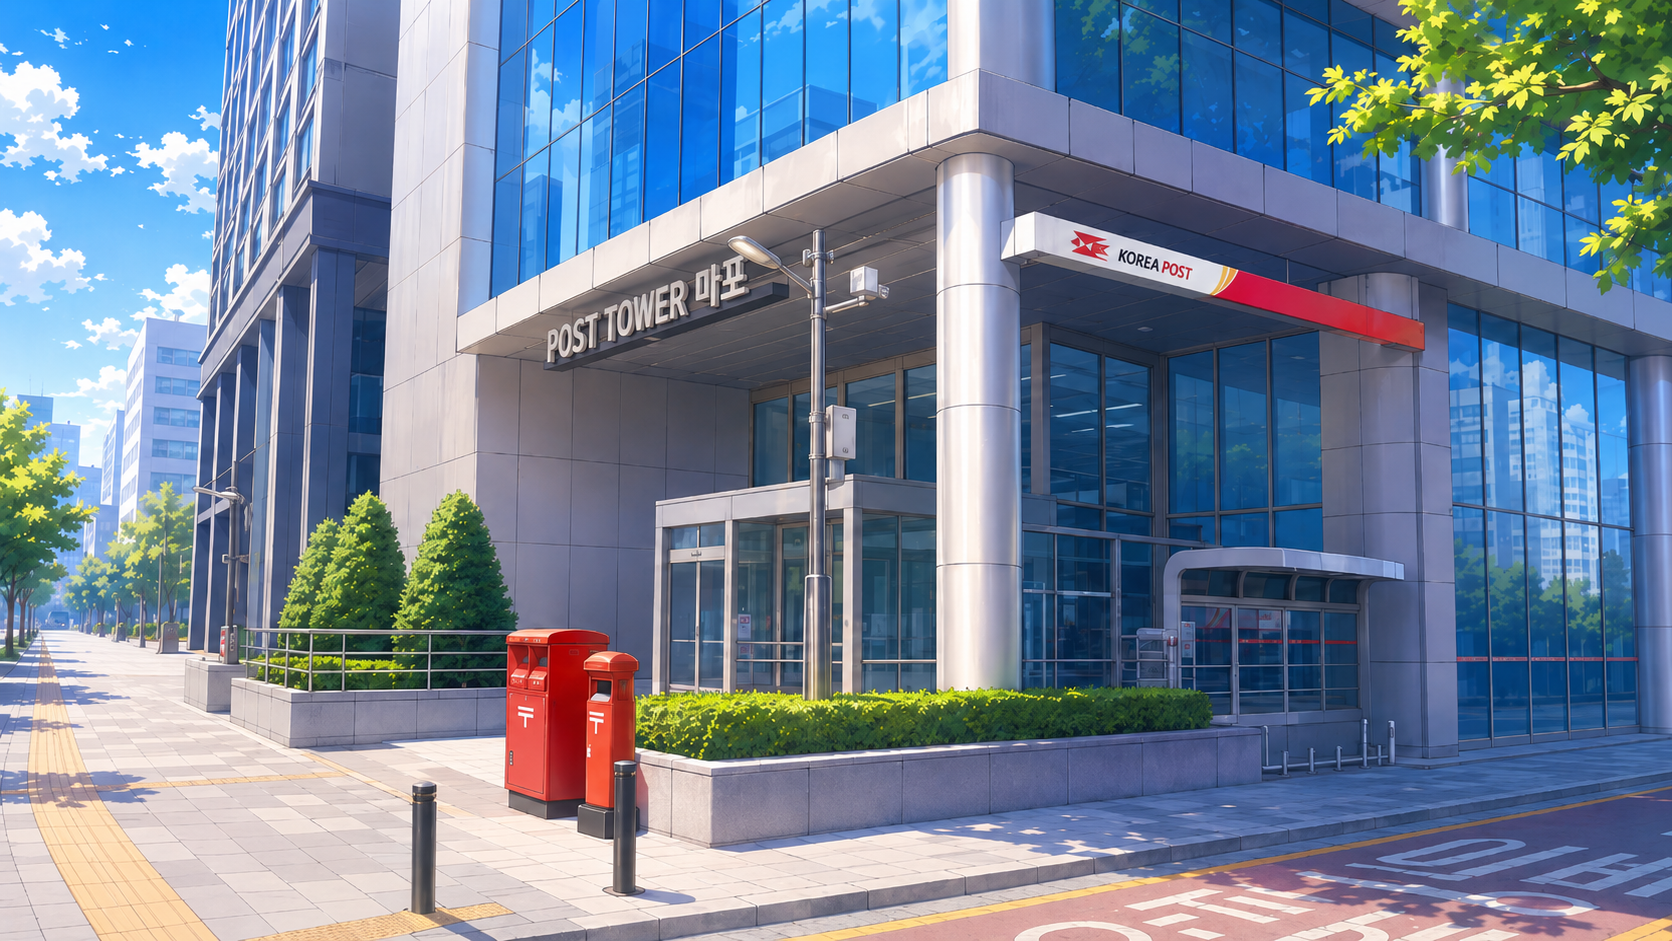
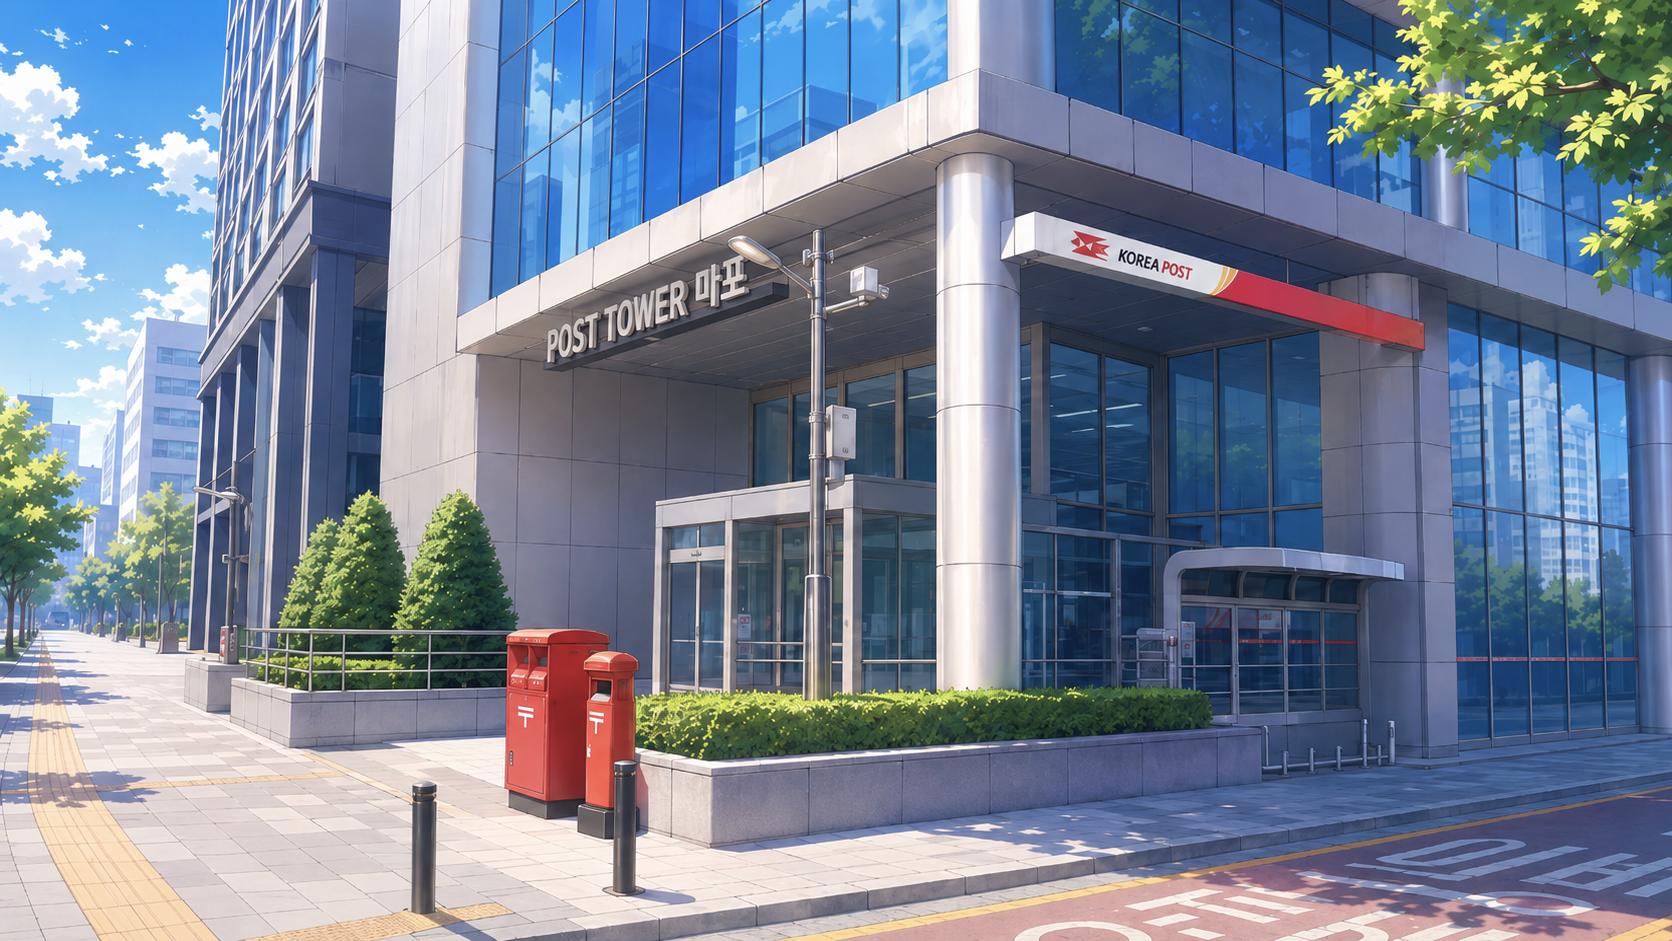
refactor: Suggestions 제거, 에셋 정리, DevStart 단축키 추가
- 추천 말풍선(Suggestions) 기능 전체 삭제
- 플레이스홀더 씬(apartment_door, elevator_panel) 제거 및 스크립트 단순화
- 에셋 파일명 영문화 및 실제 이미지로 교체
- Ctrl+Shift+D로 LLMChatInit 즉시 진입하는 DevStart 기능 추가

diff --git a/js/ui.js b/js/ui.js
@@ -141,77 +141,6 @@ export function showEventToast (eventId) {
 	setTimeout (() => { if (toast.parentNode) toast.parentNode.removeChild (toast); }, 2500);
 }
 
-// ─── 추천 말풍선 (Suggestions) ─────────────────────────────────────────────────
-
-let _suggestionsStrip = null;
-
-export async function fetchAndRenderSuggestions () {
-	clearSuggestions ();
-	let suggestions = [];
-	try {
-		const res = await fetch (`${API_BASE}/chat/suggestions`, {
-			method: 'GET',
-			credentials: 'include'
-		});
-		if (res.ok) {
-			const json = await res.json ();
-			suggestions = json?.data?.suggestions || [];
-		}
-	} catch (e) {
-	}
-	if (suggestions.length === 0) return;
-	renderSuggestionsStrip (suggestions);
-}
-
-function renderSuggestionsStrip (suggestions) {
-	const game = document.querySelector ('[data-screen="game"]') || document.body;
-	const strip = document.createElement ('div');
-	strip.className = 'llm-suggestions';
-	strip.innerHTML = '<div class="llm-suggestions__label">💡 이렇게 말해볼까요?</div>';
-	const list = document.createElement ('div');
-	list.className = 'llm-suggestions__list';
-	suggestions.forEach (s => {
-		const chip = document.createElement ('button');
-		chip.type = 'button';
-		chip.className = 'llm-suggestions__chip';
-		chip.textContent = s;
-		chip.addEventListener ('click', (ev) => {
-			ev.preventDefault ();
-			ev.stopPropagation ();
-			const ta = document.querySelector ('text-input.llm-input textarea');
-			if (ta) {
-				ta.value = s;
-				ta.dispatchEvent (new Event ('input', { bubbles: true }));
-				ta.focus ();
-			}
-		});
-		list.appendChild (chip);
-	});
-	const refresh = document.createElement ('button');
-	refresh.type = 'button';
-	refresh.className = 'llm-suggestions__refresh';
-	refresh.title = '추천 다시 받기';
-	refresh.setAttribute ('aria-label', '추천 다시 받기');
-	refresh.textContent = 'R';
-	refresh.addEventListener ('click', (ev) => {
-		ev.preventDefault ();
-		ev.stopPropagation ();
-		fetchAndRenderSuggestions ();
-	});
-	list.appendChild (refresh);
-	strip.appendChild (list);
-	game.appendChild (strip);
-	_suggestionsStrip = strip;
-}
-
-export function clearSuggestions () {
-	if (_suggestionsStrip && _suggestionsStrip.parentNode) {
-		_suggestionsStrip.parentNode.removeChild (_suggestionsStrip);
-	}
-	_suggestionsStrip = null;
-	document.querySelectorAll ('.llm-suggestions').forEach (n => n.remove ());
-}
-
 // ─── 타이프라이터 ─────────────────────────────────────────────────────────────
 
 export function typewriteAndAwait (text, opts = {}) {

diff --git a/js/script.js b/js/script.js
@@ -6,7 +6,6 @@ import {
 	resetSeraSprite,
 	showThinkingDots,
 	hideThinkingDots,
-	clearSuggestions,
 	ensureHUD,
 	updateHUD,
 	hideHUD,
@@ -43,21 +42,17 @@ monogatari.action ('notification').notifications ({
 });
 
 monogatari.assets ('images', {
-	'sera_first': '이세라 첫등장.png'
+	'sera_first': 'sera_first.png'
 });
 
 monogatari.assets ('scenes', {
 	'blank_white':     'blank_white.svg',
 	'fade_black':      'fade_black.svg',
 	'bedroom_dawn':    'bedroom_dawn.svg',
-	'apartment_door':  'apartment_door.svg',
 	'train_interior':  'metro.png',
 	'posttower_lobby': 'center_1floor.png',
-	'elevator_panel':  'elevator_panel.svg',
 	'center_hall':     'entrance.png',
-	's1_room':         'entrance.png',
-
-	// === SceneId 기반 플레이스홀더 배경 (§1.4.2) ===
+	's1_room':         's1_room.png',
 	'scene_project_plan_evaluation': 'scene_project_plan_evaluation.svg',
 	'scene_launch_ceremony':         'scene_launch_ceremony.svg',
 	'scene_mid_evaluation':          'scene_mid_evaluation.svg',
@@ -142,7 +137,6 @@ monogatari.script ({
 			}
 		},
 
-		// === 씬 2: 아침 기상 ===
 		'show scene bedroom_dawn with fadeIn',
 		'4월 13일, 월요일. 화창한 아침.',
 		'또로로롱~ 오니쨩~! 일어날 시간이에요!!',
@@ -153,9 +147,6 @@ monogatari.script ({
 		'저벅… 저벅… 툭. 샤아아아아—',
 		'…툭. 위이이이잉… 딸깍. 툭.',
 		'p 하아… 이제야 좀 상쾌하네. 오늘은 처음 센터에 가는 날이니까 빨리 준비해야지.',
-
-		// === 씬 3: 출근길 ===
-		'show scene apartment_door with fadeIn',
 		'철컥— 현관문이 닫힌다.',
 
 		'show scene train_interior with fadeIn',
@@ -163,16 +154,11 @@ monogatari.script ({
 		'p 이건 탈 때마다 왜 이리 시끄러워…',
 		'끼이이익… 덜컹… 슈우우우욱.',
 
-		// === 씬 4: 포스트타워 진입 ===
 		'show scene posttower_lobby with fadeIn',
 		'저벅… 저벅…',
 		'p 오, 여기가 소마 건물이구나. 7층이었지, 아마?',
+		'건물로 들어간다.',
 
-		'show scene elevator_panel with fadeIn',
-		'7층 버튼을 누른다.',
-		'띵— 문이 열린다.',
-
-		// === 씬 5: 7층 센터 홀 ===
 		'show scene center_hall with fadeIn',
 		'p 오오! 이곳이 센터구나. 안이 생각보다 훨씬 깔끔한걸?',
 		'운 좋게 소프트웨어 마에스트로에 합격한 나는, 워크숍이 끝나고 처음으로 센터에 발을 들였다.',
@@ -184,7 +170,6 @@ monogatari.script ({
 		'p 이야, 벌써 서로 안면을 텄구나. 나도 워크숍 때 좀 잘할걸 그랬네…',
 		'p 아니야, 지금도 늦지 않았어. 열심히 네트워킹하자!',
 
-		// === 씬 6: S1 룸 첫 조우 ===
 		'show scene s1_room with fadeIn',
 		'— S1 룸 —',
 		'p 아, 여기가 그곳이구나! 내가 면접 봤던 곳… 그땐 좁아 보였는데, 벽을 치우니까 엄청 넓네.',
@@ -200,9 +185,7 @@ monogatari.script ({
 		'jump SCENE_FIRST_MEET'
 	],
 
-	// === 소마 일정 씬 (§1.4.2 SceneId) ===
 	// 구조: [<프롤로그>, 'jump LLMChatInit', <에필로그>, gotoNextScene]
-
 	'SCENE_FIRST_MEET': [
 		'show character y calm with fadeIn',
 		'p 그때 워크숍 때 봤던 사람이잖아…? 다시 봐도 정말 눈에 띄네.',
@@ -326,6 +309,13 @@ monogatari.script ({
 		gotoNextScene
 	],
 
+	// 개발용 LLMChatInit 진입 씬
+	'DevStart' : [
+		'show scene s1_room',
+		'show character y calm',
+		'jump LLMChatInit'
+	],
+
 	// 씬 전환 디스패처 — LLMChat Conditional 의 'transition' 분기에서 진입.
 	'_TransitionDispatch': [
 		function () {
@@ -375,7 +365,6 @@ monogatari.script ({
 				if (llmStorage.emotion) updateSeraSprite (llmStorage.emotion);
 				this.storage ({ boot: Object.assign ({}, boot, { mode: boot.mode + '-played' }) });
 			}
-			clearSuggestions ();
 
 			const prevLLM = this.storage ('llm') || {};
 			this.storage ({
@@ -429,7 +418,6 @@ monogatari.script ({
 						body: JSON.stringify ({ message: prompt })
 					});
 
-					clearSuggestions ();
 					return true;
 				},
 				'Revert': function () {
@@ -526,7 +514,6 @@ monogatari.script ({
 
 	'LLMEnd': [
 		async function () {
-			clearSuggestions ();
 			hideThinkingDots ();
 			hideHUD ();
 

diff --git a/js/game-flow.js b/js/game-flow.js
@@ -9,7 +9,6 @@ import {
 } from './api.js';
 import {
 	hideHUD,
-	clearSuggestions,
 	hideThinkingDots,
 	closeLogViewer,
 	isLogViewerOpen,
@@ -40,7 +39,6 @@ export function cleanupCustomUI () {
 	cancelPendingAutoSave ();
 	if (shouldAutoSaveScriptState ()) saveResumeSlot ('quit');
 	monogatari.global ('playing', false);
-	clearSuggestions ();
 	hideThinkingDots ();
 	hideHUD ();
 	if (isLogViewerOpen ()) closeLogViewer ();
@@ -229,6 +227,33 @@ export async function handleResume () {
 	} catch (err) {
 		console.error ('[resume] unhandled error:', err);
 		alert ('이어 하기 처리 중 오류가 발생했어요. 콘솔을 확인해주세요.\n\n' + (err?.message || err));
+	}
+}
+
+export async function handleDevStart () {
+	console.debug ('[dev-start] entry');
+	try {
+		cleanupCustomUI ();
+		try {
+			const res = await postSessionsCreate (true);
+			if (!res.ok) console.warn ('[dev-start] /sessions 응답 비정상:', res.status);
+		} catch (e) {
+			console.warn ('[dev-start] /sessions 호출 실패 (BE 미가용?):', e);
+		}
+		try { await monogatari.Storage.remove (SAVE_SLOT_KEY); } catch (e) {}
+		try { await monogatari.Storage.remove ('AutoSave_1'); } catch (e) {}
+		try { await monogatari.resetGame (); } catch (e) {}
+		monogatari.storage ({
+			player: { name: 'dev' },
+			sera:   { name: '이세라' }
+		});
+		monogatari.state ({ step: 0, label: 'DevStart' });
+		resetSessionBootstrapFlag ();
+		console.debug ('[dev-start] jumping to DevStart');
+		await engineStart ();
+	} catch (err) {
+		console.error ('[dev-start] unhandled error:', err);
+		alert ('[DEV] DevStart 진입 실패. 콘솔을 확인해주세요.');
 	}
 }
 

diff --git a/js/menu.js b/js/menu.js
@@ -1,7 +1,7 @@
 import { monogatari } from './engine.js';
 import { fetchSessionMe } from './api.js';
 import { hasLocalAutoSave } from './save.js';
-import { handleNewGame, handleResume, handleSomaQuit } from './game-flow.js';
+import { handleNewGame, handleResume, handleSomaQuit, handleDevStart } from './game-flow.js';
 
 monogatari.registerListener ('soma-new', {
 	callback: function () {
@@ -32,7 +32,7 @@ class SomaMainMenu extends MainMenu {
 		return `
 			<div data-ui="main-brand" aria-hidden="true">
 				<span data-ui="main-kicker">SOMA x First Love</span>
-                <strong data-ui="main-title">커널을 좋아하는 옆자리의 그녀</strong>
+                <strong data-ui="main-title">커널을 좋아하는<br>옆자리의 그녀</strong>
 			</div>
 			<div data-content="wrapper">
                 <button type="button" data-action="soma-resume" data-soma-button="resume" hidden>이어 하기</button>
@@ -77,6 +77,15 @@ class SomaSettingsScreen extends SettingsScreen {
 }
 SomaSettingsScreen.tag = 'settings-screen';
 monogatari.registerComponent (SomaSettingsScreen);
+
+// 개발용 단축키: 메인 화면에서 Ctrl+Shift+D → LLMChatInit 즉시 진입
+document.addEventListener ('keydown', function (e) {
+	if (!e.ctrlKey || !e.shiftKey || e.key !== 'D') return;
+	if (document.body.classList.contains ('game-active')) return;
+	e.preventDefault ();
+	console.debug ('[dev-key] Ctrl+Shift+D → handleDevStart()');
+	handleDevStart ();
+});
 
 export function refreshSomaMainMenu () {
 	document.querySelectorAll ('main-menu').forEach (el => {